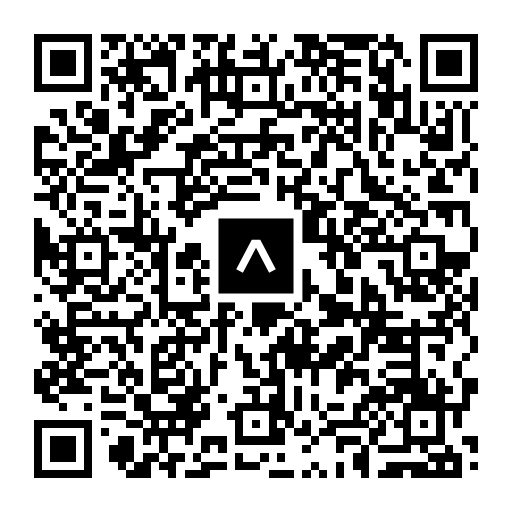
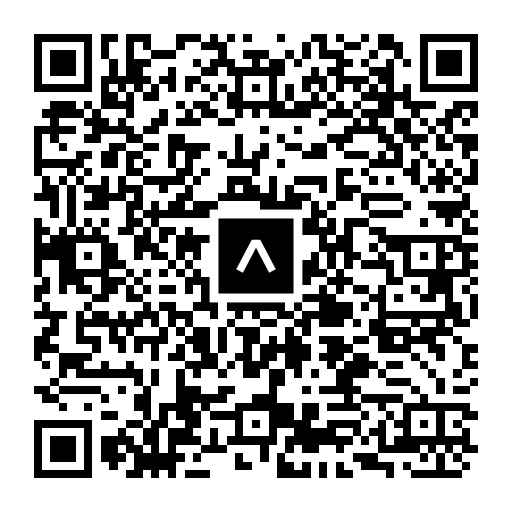
new QR code for a fix to view repository button

Changed region(s): [[0.0625, 0.0625, 0.9375, 0.9375]]

diff --git a/osa10/rate-repository-app/src/components/MyReviews.jsx b/osa10/rate-repository-app/src/components/MyReviews.jsx
@@ -49,12 +49,12 @@ const styles = StyleSheet.create({
   },
 });
 
-const ButtonContainer = ({ id, reviewId, refetch }) => {
+const ButtonContainer = ({ repositoryId, reviewId, refetch }) => {
   const navigate = useNavigate();
   const [mutate] = useMutation(DELETE_REVIEW);
 
-  const onPress = (id) => {
-    navigate(`/${id}`);
+  const onPress = () => {
+    navigate(`/${repositoryId}`);
   };
 
   const deleteAlert = () =>
@@ -71,7 +71,7 @@ const ButtonContainer = ({ id, reviewId, refetch }) => {
           text: 'DELETE',
           onPress: async () => {
             const { data } = await mutate({
-              variables: { deleteReviewId: id },
+              variables: { deleteReviewId: reviewId },
             });
             console.log(data);
             refetch();
@@ -82,7 +82,7 @@ const ButtonContainer = ({ id, reviewId, refetch }) => {
 
   return (
     <View style={styles.container}>
-      <Pressable onPress={() => onPress(id)}>
+      <Pressable onPress={() => onPress()}>
         <Text style={styles.button}>View repository</Text>
       </Pressable>
       <Pressable onPress={deleteAlert}>
@@ -111,7 +111,11 @@ const MyReviews = () => {
       renderItem={({ item }) => (
         <View>
           <ReviewItem review={item} repositoryName={true} />
-          <ButtonContainer id={item.id} refetch={refetch} />
+          <ButtonContainer
+            reviewId={item.id}
+            refetch={refetch}
+            repositoryId={item.repositoryId}
+          />
         </View>
       )}
       keyExtractor={({ id }) => id}
